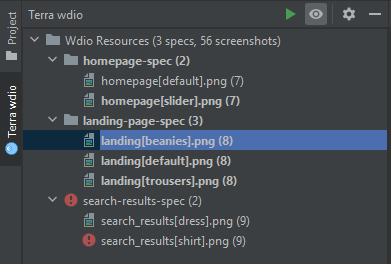
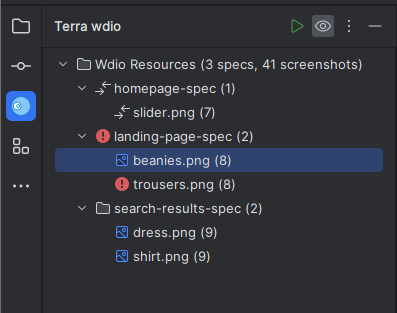
Update documentation and screenshots to show the latest version of functionality on the new IDE UI

Changed region(s): [[0.0, 0.0, 1.0, 1.0]]

diff --git a/docs/terra_wdio_tool_window.md b/docs/terra_wdio_tool_window.md
@@ -69,9 +69,9 @@ as bulk operations:
 When building this tree view, the logic behind also takes into account when spec JS files are in single or multiple subfolders under the base test path.
 They are collected in the same way into this view, their parent folders (as of now) are not displayed in the tool window.
 
-| With statistics | Without statistics |
-|---|---|
-| ![terra_wdio_tool_window](assets/terra_wdio_tool_window.PNG) | ![terra_wdio_tool_window](assets/terra_wdio_tool_window_without_stats.PNG) 
+| With statistics                                              | Without statistics                                                         |
+|--------------------------------------------------------------|----------------------------------------------------------------------------|
+| ![terra_wdio_tool_window](assets/terra_wdio_tool_window.PNG) | ![terra_wdio_tool_window](assets/terra_wdio_tool_window_without_stats.PNG) |
 
 ## Wdio test root paths
 
@@ -132,18 +132,18 @@ Screenshot nodes also provide bulk actions to work with them, in the form of con
 
 ![screenshot_actions_menu](assets/terra_wdio_tool_window_screenshot_actions_menu.png)
 
-| Action | Description | Shortcut keys |
-|---|---|---|
-| Rename Screenshots | Renames all screenshot files under the wdio test root with the same name.<br>When this action is invoked, a message popup appears populated with the file name, for which a simple validation is in place: the new name cannot be blank, and cannot be the same as its original name.<br>If the extension is erased from the new name, it is added back automatically before saving. | **Shift+F6** (the common Rename shortcut) |
-|  | ![rename_screenshots_action_popup](assets/terra_wdio_tool_window_rename_screenshots_action_popup.png) |  |
-| Delete Screenshots | Deletes all screenshot files under the wdio test root with the same name.<br>Before deletion, it show a message popup asking for confirmation from the user whether he/she really wants to delete all such files. | **Delete** |
-|  | ![delete_screenshots_action_popup](assets/terra_wdio_tool_window_delete_screenshots_action_popup.png) |  |
-| Replace Reference With Latest | Replaces all reference screenshot files with their latest counterparts under the wdio test root with the same name.<br>The action is available only when there is at least one screenshot as the latest version of the reference images. | **Ctrl+R** (**Command+R** on Mac) |
-| Navigate to Usage | Navigates to the code section (the Terra validation call) where the selected screenshot is referenced. | **Ctrl+B** (**Command+B** on Mac) |
-|  | If there is no spec file (it has been deleted after or wasn't available at the IDE startup), but the screenshots linked screenshots are still available in the __snapshots__ directory, the dialog below is shown:<br>![navigate_to_no_spec](assets/terra_wdio_tool_window_navigate_to_no_spec.png) |  |
-|  | If there is no validation linked to this image (the Terra validation call was removed entirely or it references this image by a different name), the following dialog is shown:<br>![navigate_to_no_validation](assets/terra_wdio_tool_window_navigate_to_no_validation.png) |  |
-| Show Diffs | Opens the Terra Diff Preview for the selected image name.<br>The action is available only when there is at least one screenshot as the diff version of the reference images.<br><br>See details in the [Diff screenshot previews](#diff-screenshot-previews) section below.|  **Ctrl+D** (**Command+D** on Mac) |
-| Compare Latests With References | Opens the Terra Diff Preview for the selected image name.<br>The action is available only when there is at least one screenshot as the latest version of the reference images.<br><br>See details in the [Diff screenshot previews](#diff-screenshot-previews) section below. | **Enter** shortcut key or **mouse double-click** |
+| Action                          | Description                                                                                                                                                                                                                                                                                                                                                                          | Shortcut keys                                    |
+|---------------------------------|--------------------------------------------------------------------------------------------------------------------------------------------------------------------------------------------------------------------------------------------------------------------------------------------------------------------------------------------------------------------------------------|--------------------------------------------------|
+| Rename Screenshots              | Renames all screenshot files under the wdio test root with the same name.<br>When this action is invoked, a message popup appears populated with the file name, for which a simple validation is in place: the new name cannot be blank, and cannot be the same as its original name.<br>If the extension is erased from the new name, it is added back automatically before saving. | **Shift+F6** (the common Rename shortcut)        |
+|                                 | ![rename_screenshots_action_popup](assets/terra_wdio_tool_window_rename_screenshots_action_popup.png)                                                                                                                                                                                                                                                                                |                                                  |
+| Delete Screenshots              | Deletes all screenshot files under the wdio test root with the same name.<br>Before deletion, it show a message popup asking for confirmation from the user whether he/she really wants to delete all such files.                                                                                                                                                                    | **Delete**                                       |
+|                                 | ![delete_screenshots_action_popup](assets/terra_wdio_tool_window_delete_screenshots_action_popup.png)                                                                                                                                                                                                                                                                                |                                                  |
+| Replace Reference With Latest   | Replaces all reference screenshot files with their latest counterparts under the wdio test root with the same name.<br>The action is available only when there is at least one screenshot as the latest version of the reference images.                                                                                                                                             | **Ctrl+R** (**Command+R** on Mac)                |
+| Navigate to Usage               | Navigates to the code section (the Terra validation call) where the selected screenshot is referenced.                                                                                                                                                                                                                                                                               | **Ctrl+B** (**Command+B** on Mac)                |
+|                                 | If there is no spec file (it has been deleted after or wasn't available at the IDE startup), but the screenshots linked screenshots are still available in the __snapshots__ directory, the dialog below is shown:<br>![navigate_to_no_spec](assets/terra_wdio_tool_window_navigate_to_no_spec.png)                                                                                  |                                                  |
+|                                 | If there is no validation linked to this image (the Terra validation call was removed entirely or it references this image by a different name), the following dialog is shown:<br>![navigate_to_no_validation](assets/terra_wdio_tool_window_navigate_to_no_validation.png)                                                                                                         |                                                  |
+| Show Diffs                      | Opens the Terra Diff Preview for the selected image name.<br>The action is available only when there is at least one screenshot as the diff version of the reference images.<br><br>See details in the [Diff screenshot previews](#diff-screenshot-previews) section below.                                                                                                          | **Ctrl+D** (**Command+D** on Mac)                |
+| Compare Latests With References | Opens the Terra Diff Preview for the selected image name.<br>The action is available only when there is at least one screenshot as the latest version of the reference images.<br><br>See details in the [Diff screenshot previews](#diff-screenshot-previews) section below.                                                                                                        | **Enter** shortcut key or **mouse double-click** |
 
 ## Diff screenshot previews
 
@@ -152,12 +152,12 @@ so that investigating a diff screenshot collection for the same file name (but f
 
 These previews are displayed as separate editor tabs when an image file is opened, and that particular image file is eligible for showing the preview.
 
-|  | Terra: Diff Preview | Terra: Reference / Latest Preview |
-|---|---|---|
-| From where can it be opened? | From the **Project view**, or from the **Terra wdio tool window**, selecting the `Show Diffs` context menu option on a screenshot node. | From the **Project view**, or from the **Terra wdio tool window**, selecting the `Compare Latests With References` context menu option on a screenshot node. |
-| Which files does it open for? | From the **Project view**, it is displayed when opening any Terra `diff` image. From the **Terra wdio tool window** it can be opened for screenshot nodes but only if there is at least one `diff` screenshot for that file name. | From the **Project view**, it is displayed when opening any Terra `reference` or `latest` image. From the **Terra wdio tool window** it can be opened for screenshot nodes but only if there is at least one `latest` screenshot for that file name. |
-| Does it get focus? | When an image is opened via the **Project view**, the default image editor is shown. Using the `Show Diffs` context menu option also focuses the view on the Diff Preview.  | Behaves the same as for the `Diff Preview` but instead it is the `Reference / Latest Preview` that is focused. |
-| What is displayed in the preview? | It shows one or more `diff` images for a given screenshot name. | It shows one or more pairs of `reference`/`latest` images, each displayed side-by-side. Each split panel can be resized but their states are not remembered for later openings. |
+|                                   | Terra: Diff Preview                                                                                                                                                                                                               | Terra: Reference / Latest Preview                                                                                                                                                                                                                    |
+|-----------------------------------|-----------------------------------------------------------------------------------------------------------------------------------------------------------------------------------------------------------------------------------|------------------------------------------------------------------------------------------------------------------------------------------------------------------------------------------------------------------------------------------------------|
+| From where can it be opened?      | From the **Project view**, or from the **Terra wdio tool window**, selecting the `Show Diffs` context menu option on a screenshot node.                                                                                           | From the **Project view**, or from the **Terra wdio tool window**, selecting the `Compare Latests With References` context menu option on a screenshot node.                                                                                         |
+| Which files does it open for?     | From the **Project view**, it is displayed when opening any Terra `diff` image. From the **Terra wdio tool window** it can be opened for screenshot nodes but only if there is at least one `diff` screenshot for that file name. | From the **Project view**, it is displayed when opening any Terra `reference` or `latest` image. From the **Terra wdio tool window** it can be opened for screenshot nodes but only if there is at least one `latest` screenshot for that file name. |
+| Does it get focus?                | When an image is opened via the **Project view**, the default image editor is shown. Using the `Show Diffs` context menu option also focuses the view on the Diff Preview.                                                        | Behaves the same as for the `Diff Preview` but instead it is the `Reference / Latest Preview` that is focused.                                                                                                                                       |
+| What is displayed in the preview? | It shows one or more `diff` images for a given screenshot name.                                                                                                                                                                   | It shows one or more pairs of `reference`/`latest` images, each displayed side-by-side. Each split panel can be resized but their states are not remembered for later openings.                                                                      |
 
 Both previews also show the screenshot context (locale, browser, viewport) above each image to help identify them.
 

diff --git a/docs/terra_helpers.md b/docs/terra_helpers.md
@@ -137,11 +137,11 @@ It handles both terra-toolkit and terra-functional-testing specific properties b
 
 **Valid properties**
 
-| Helpers | terra-toolkit | terra-functional-testing |
-|---|---|---|
-| `Terra.it.matchesScreenshot`/`validates.screenshot` | `misMatchTolerance`, `selector`, `viewports` | `mismatchTolerance`, `selector` |
-| `Terra.it.validatesElement`/`validates.element` | `misMatchTolerance`, `selector`, `axeRules` | `mismatchTolerance`, `selector`, `rules` |
-| `Terra.it.isAccessible`/`validates.accessibility` | `axeRules` | `rules` |
+| Helpers                                             | terra-toolkit                                | terra-functional-testing                 |
+|-----------------------------------------------------|----------------------------------------------|------------------------------------------|
+| `Terra.it.matchesScreenshot`/`validates.screenshot` | `misMatchTolerance`, `selector`, `viewports` | `mismatchTolerance`, `selector`          |
+| `Terra.it.validatesElement`/`validates.element`     | `misMatchTolerance`, `selector`, `axeRules`  | `mismatchTolerance`, `selector`, `rules` |
+| `Terra.it.isAccessible`/`validates.accessibility`   | `axeRules`                                   | `rules`                                  |
 
 ### Convert Terra.it helpers to Terra.validates
 
@@ -153,6 +153,7 @@ to their Terra.validates forms.
 This inspection reports usages of `Terra.it` helpers, and provides various quick fixes to replace them.
 
 #### Without a preceding before hook
+
 In its simplest form, if there is no `before` hook **directly** before the particular Terra.it helper, there is only one quick fix suggested, called
 ![replate_terra_it_quick_fix_simple](assets/replate_terra_it_quick_fix_simple.png). The conversion would be as follows:
 
